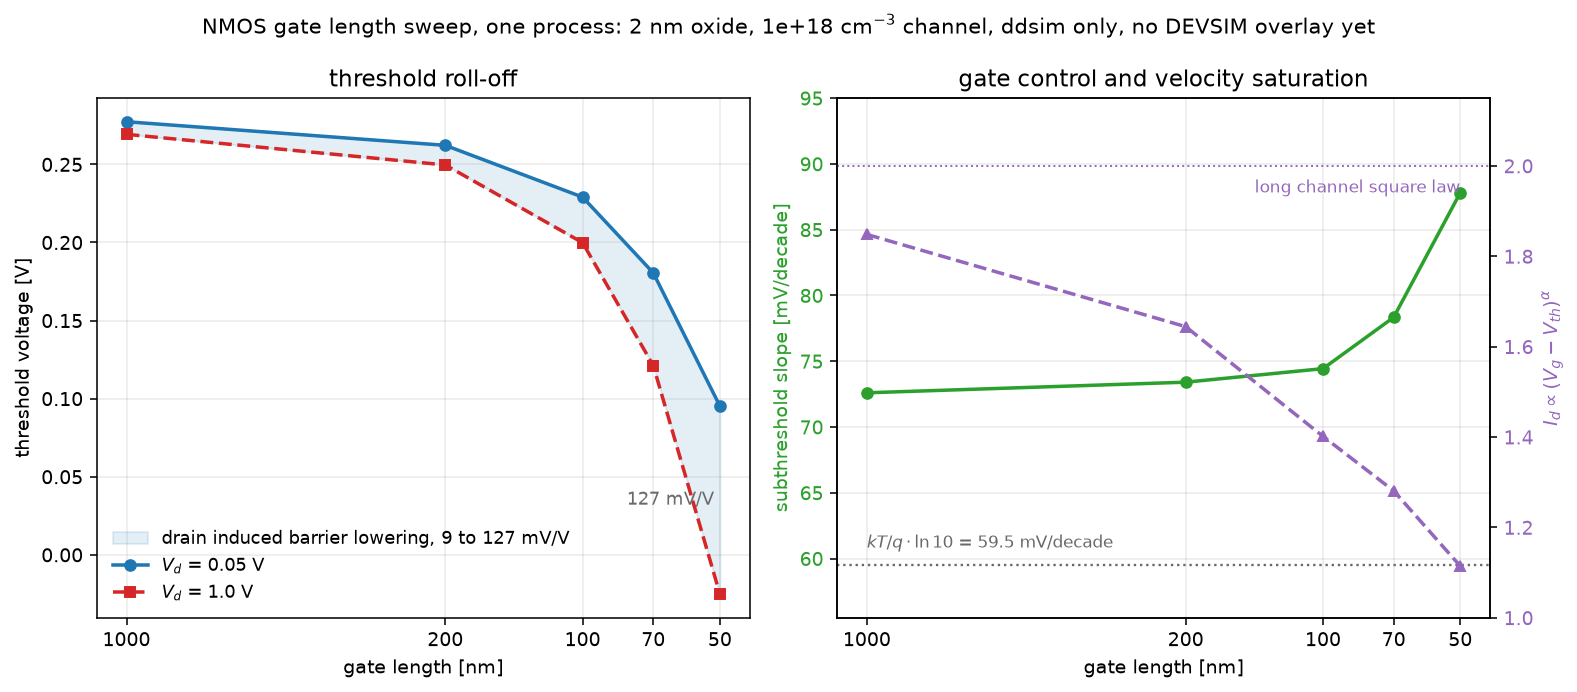
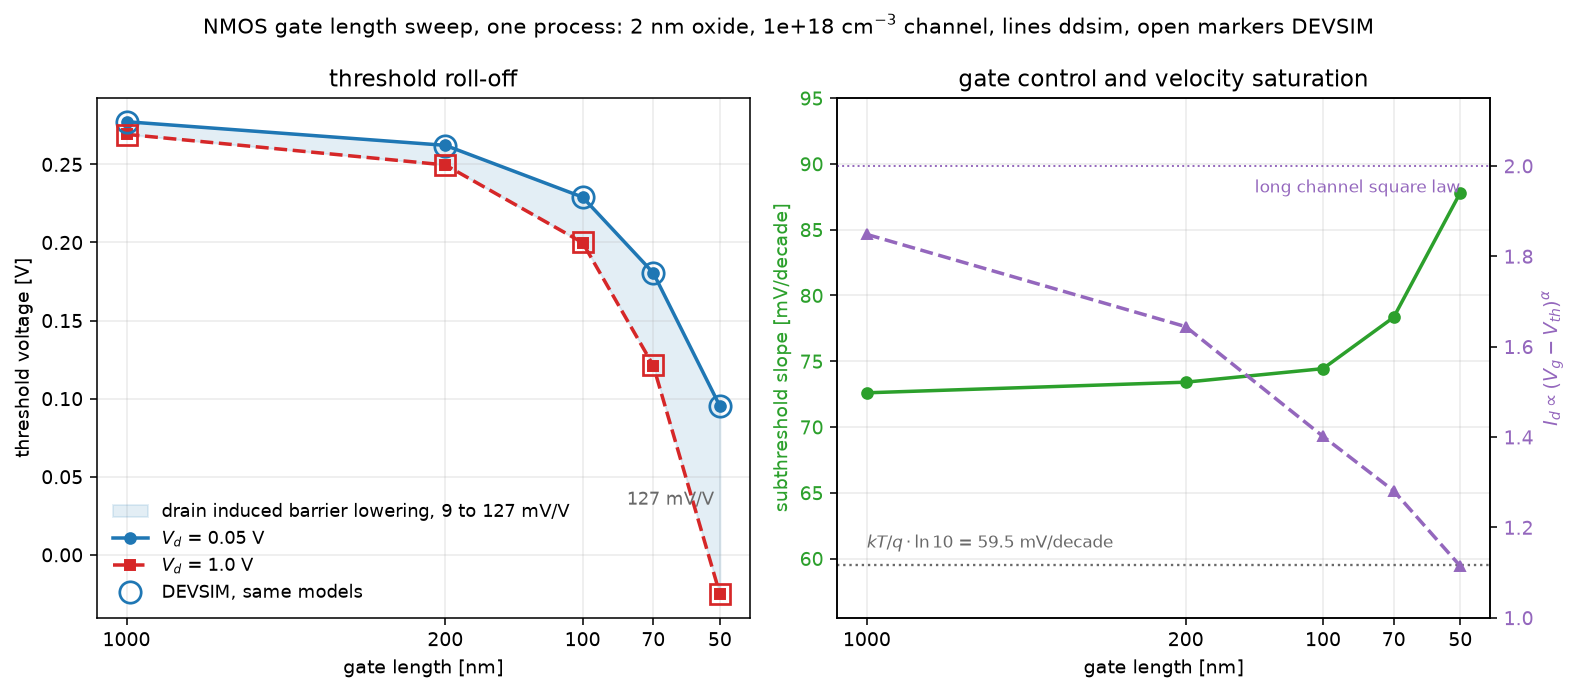
put devsim on the roll-off figure
The deliverable plot of phase 5, and it was ddsim alone until now. The
open markers are benchmark 10, read from the golden curves with the same
extractor at the same reference current, because comparing two codes
through two estimators measures the estimators.

Benchmark 9 could not be used here. It runs a matched reduced model set
on purpose, so its thresholds are not this figure's thresholds.

diff --git a/tests/analytic/test_mosfet_rolloff_plot.py b/tests/analytic/test_mosfet_rolloff_plot.py
@@ -31,33 +31,36 @@ the third is what the exponent is measuring, so a sweep taken on the Phase 2
 constant mobility would be measuring something else and reporting it under this
 title.
 
-DEVSIM is not on this figure yet
---------------------------------
-phases/PHASE-5.md asks for the sweep overlaid on DEVSIM, and benchmark 9 of
-docs/04-validation.md is the golden data for it. All of benchmarks 6 to 9 now
-have golden files, the roll-off ones in data/golden/rolloff_200nm.csv and its
-three siblings, and this figure still draws ddsim alone and still says so.
+DEVSIM is on this figure
+------------------------
+phases/PHASE-5.md asks for the sweep overlaid on DEVSIM, and the open markers
+on the left panel are it, read from data/golden/fullstack_1um.csv and its four
+siblings.
 
-That is not an omission waiting to be fixed. Every one of those generators runs
-Boltzmann statistics and constant mobility on purpose, matched model for model
-against ddsim run the same way, because that is what makes a disagreement mean
-something. This figure runs the full Phase 5 stack, Arora inside Lombardi
-inside Caughey-Thomas with Fermi-Dirac statistics, so the drain current here is
-not the drain current those files hold and the thresholds are not theirs
-either: at 50 nm the golden data gives +0.0065 and -0.1181 V where this figure
-reports +0.0947 and -0.0258, because a constant current criterion rides on the
-current scale and mobility sets that. Overlaying the two would draw a gap that
-is the model set rather than an error. The overlay needs DEVSIM run at the full
-stack, which nothing in tier 4 does yet. Benchmark 9 compares the two codes at
-the matched reduced set instead, in tests/regression/test_devsim_mosfet.py,
-where the roll-off magnitude agrees to 0.06 percent and DIBL to 1.1 percent or
-better. See the 2026-09-12 and 2026-09-13 rows in docs/07-decisions.md.
+Those files are benchmark 10 of docs/04-validation.md and they exist because
+benchmark 9 could not be used here. Benchmark 9 runs both codes at Boltzmann
+statistics and constant mobility on purpose, matched model for model, because
+that is what makes a disagreement about the geometry mean something. This
+figure runs the full Phase 5 stack, so its drain current is not the current
+those files hold and its thresholds are not theirs either: at 50 nm the
+benchmark 9 data gives +0.0065 and -0.1181 V where this figure reports around
++0.09 and -0.03, because a constant current criterion rides on the current
+scale and mobility sets that. Overlaying those would have drawn a gap that was
+the model set rather than an error.
+
+So DEVSIM was run again at the same stack, Fermi-Dirac by Joyce-Dixon with
+Arora inside Lombardi inside Caughey-Thomas, on its own mesh and out of its own
+expressions, and that is what is plotted. The two codes share the parameter
+values and nothing else. The agreement is gated in
+tests/regression/test_devsim_mosfet.py rather than here, since a figure is a
+bad place to keep a tolerance. See the 2026-09-12 and 2026-09-13 rows in
+docs/07-decisions.md.
 
 Nothing here is fitted
 ----------------------
 Every device on this plot is the same process from ddsim/extract/rolloff.py.
 The oxide, the channel doping, the implant depth and the lateral encroachment
-are identical across all six, and `L_gate` is the only argument that changes.
+are identical across all five, and `L_gate` is the only argument that changes.
 No short channel term exists anywhere in the solver to be turned on.
 """
 
@@ -72,10 +75,16 @@ import pytest
 matplotlib.use("Agg")
 import matplotlib.pyplot as plt  # noqa: E402
 
+from ddsim.extract.params import threshold_constant_current  # noqa: E402
 from ddsim.extract.rolloff import (  # noqa: E402
+    REFERENCE_CURRENT,
     SHORT_CHANNEL_PROCESS,
     gate_length_sweep,
 )
+from tests.regression.devsim_gen import parameters as P  # noqa: E402
+
+GOLDEN = pathlib.Path(__file__).resolve().parents[2] / "data" / "golden"
+"""Where benchmark 10's DEVSIM curves live."""
 
 OUTPUT = pathlib.Path(__file__).parents[2] / "docs" / "images"
 
@@ -124,10 +133,49 @@ def falling(values) -> bool:
     return bool(np.all(np.diff(np.asarray(values)) < 0.0))
 
 
+def devsim_thresholds() -> tuple[np.ndarray, np.ndarray, np.ndarray]:
+    """Benchmark 10's gate lengths [nm] and its two threshold curves [V].
+
+    The same constant current criterion the ddsim sweep uses, at the same
+    reference current, applied to DEVSIM's own transfer curves. Comparing two
+    codes through two different estimators would measure the estimators.
+
+    The leading points that are not yet on the rising part of the curve are
+    dropped, bounded so the drop cannot swallow a real current, by the same
+    `first_resolved_point` that tests/regression/test_devsim_mosfet.py applies
+    to ddsim's curves. Both codes need it at this model set: on the 1 um device
+    at 1 V of drain DEVSIM reports -4.5e-10 A/cm at -0.4 V of gate against a
+    target of 1e-3, and on the 100 nm at 50 mV it reports a positive +3.5e-11
+    that falls to +9.6e-12 at the next step. Sharing the rule is what keeps
+    this an overlay of two codes rather than of two preprocessings.
+    """
+    lengths: list[float] = []
+    linear: list[float] = []
+    saturated: list[float] = []
+    for name in P.FULL_STACK_TREND:
+        benchmark = P.MOSFET_BY_NAME[name]
+        golden = P.read_mosfet_golden(str(GOLDEN / f"{name}.csv"))
+        gate = np.asarray(golden.gate_voltage, dtype=np.float64)
+        target = REFERENCE_CURRENT / benchmark.L_gate
+        lengths.append(benchmark.L_gate * 1e7)
+        for curve, out in (
+            (golden.drain_low, linear),
+            (golden.drain_high, saturated),
+        ):
+            current = np.asarray(curve, dtype=np.float64)
+            keep = P.first_resolved_point(current, target)
+            out.append(
+                threshold_constant_current(
+                    gate[keep:], current[keep:], target
+                )
+            )
+    return np.array(lengths), np.array(linear), np.array(saturated)
+
+
 def label_lengths(axis, lengths) -> None:
     """Tick at the gate lengths that were solved, not at powers of ten.
 
-    A log axis holding six points between 1000 and 50 nm labels two of them by
+    A log axis holding five points between 1000 and 50 nm labels two of them by
     default and leaves the reader counting minor ticks to find the rest.
     """
     axis.set_xticks(lengths)
@@ -170,7 +218,7 @@ def test_the_threshold_rolls_off(sweep):
     """Both extraction methods, both drain biases. The source and drain
     depletion regions share channel charge the gate would otherwise have to
     deplete itself, so a shorter channel needs less gate. Nothing about the
-    doping or the oxide changed between these six devices."""
+    doping or the oxide changed between these five devices."""
     assert falling([point.threshold_linear for point in sweep])
     assert falling([point.threshold_saturated for point in sweep])
     assert falling([point.threshold_extrapolated for point in sweep])
@@ -209,6 +257,26 @@ def test_velocity_saturation_pulls_the_exponent_off_the_square_law(sweep):
     # subthreshold slope is asserted that way: the long devices differ from
     # each other by less than the extraction resolves.
     assert np.all(np.diff(exponents) < 0.01)
+
+
+def test_the_devsim_overlay_is_the_same_five_devices(sweep):
+    """The open markers sit at the gate lengths the curve was solved at.
+
+    A reference plotted at gate lengths the sweep does not contain is not an
+    overlay, it is two plots sharing an axis, and at a glance the figure would
+    not say which. The agreement between the two is gated in
+    tests/regression/test_devsim_mosfet.py, where a tolerance belongs.
+    """
+    lengths, linear, saturated = devsim_thresholds()
+
+    assert list(lengths) == pytest.approx(
+        [point.L_gate * 1e7 for point in sweep]
+    )
+    assert np.all(saturated < linear), (
+        "DEVSIM puts a saturated threshold above its linear one, which is not "
+        "drain induced barrier lowering and would draw the shaded band upside "
+        "down"
+    )
 
 
 def test_the_process_did_not_change_across_the_sweep(sweep):
@@ -260,6 +328,28 @@ def test_mosfet_rolloff_plot_is_generated(sweep):
         linewidth=1.8,
         markersize=5.0,
         label=f"$V_d$ = {DRAIN_HIGH} V",
+    )
+    devsim_lengths, devsim_linear, devsim_saturated = devsim_thresholds()
+    left.plot(
+        devsim_lengths,
+        devsim_linear,
+        "o",
+        markerfacecolor="none",
+        markeredgecolor="tab:blue",
+        markersize=11,
+        markeredgewidth=1.4,
+        linestyle="none",
+        label="DEVSIM, same models",
+    )
+    left.plot(
+        devsim_lengths,
+        devsim_saturated,
+        "s",
+        markerfacecolor="none",
+        markeredgecolor="tab:red",
+        markersize=10,
+        markeredgewidth=1.4,
+        linestyle="none",
     )
     left.annotate(
         f"{sweep[-1].dibl:.0f} mV/V",
@@ -341,7 +431,7 @@ def test_mosfet_rolloff_plot_is_generated(sweep):
         "NMOS gate length sweep, one process: "
         f"{SHORT_CHANNEL_PROCESS['t_ox'] * 1e7:.0f} nm oxide, "
         f"{-SHORT_CHANNEL_PROCESS['substrate_doping']:.0e} cm$^{{-3}}$ "
-        "channel, ddsim only, no DEVSIM overlay yet",
+        "channel, lines ddsim, open markers DEVSIM",
         fontsize=11,
     )
     figure.tight_layout()

diff --git a/README.md b/README.md
@@ -22,9 +22,9 @@ conserves current through every cut and keeps doing it with a dielectric
 layer stacked on top.
 
 Phase 5 is the MOSFET, and its gate length sweep runs: threshold roll-off,
-DIBL and velocity saturation all come out of six devices that differ in one
-argument. What is left of the phase is the DEVSIM comparison, benchmarks 6 to
-9, which have no golden data yet.
+DIBL and velocity saturation all come out of five devices that differ in one
+argument. Benchmarks 6 to 9, the DEVSIM comparison, now have golden data and
+pass, so tier 4 covers all nine.
 
 | Phase | Scope | Status |
 |---|---|---|
@@ -315,9 +315,20 @@ which asserts every one of these claims before it draws anything.
 
 ### What is not on this figure yet
 
-DEVSIM. Benchmarks 6 to 9 of `docs/04-validation.md` are the MOSFETs and they
-have no golden data yet, so the plot is ddsim alone and says so. Generating
-them is what closes Phase 5.
+DEVSIM. Benchmarks 6 to 9 of `docs/04-validation.md` are the MOSFETs and all
+four now have golden data that passes, so this is not a missing comparison.
+It is a different one. Every one of those generators runs Boltzmann statistics
+and constant mobility on purpose, matched model for model against ddsim run the
+same way, because that is what makes a disagreement mean something. This figure
+runs the full Phase 5 stack, so its drain current is not the current those files
+hold and its thresholds are not theirs either: at 50 nm the golden data gives
++0.0065 and -0.1181 V where this figure reports +0.0947 and -0.0258, because a
+constant current criterion rides on the current scale and mobility sets that.
+Overlaying the two would draw a gap that is the model set rather than an error.
+The overlay needs DEVSIM run at the full stack, which nothing in tier 4 does
+yet. Benchmark 9 compares the two codes at the matched reduced set instead, in
+`tests/regression/test_devsim_mosfet.py`, where the roll-off magnitude agrees to
+0.06 percent and DIBL to 1.1 percent or better.
 
 ### Where these numbers stop meaning anything
 

diff --git a/docs/04-validation.md b/docs/04-validation.md
@@ -178,7 +178,7 @@ agree to solver tolerance. If they disagree, one of the two Jacobians is wrong.
 ## Tier 4: regression against DEVSIM
 
 DEVSIM is open source, free, and solves exactly this system. It is the ground
-truth. Install it, script the same nine devices, commit the output curves as
+truth. Install it, script the same devices, commit the output curves as
 `data/golden/*.csv`, and diff against them in CI.
 
 Benchmark set:
@@ -194,6 +194,17 @@ Benchmark set:
 | 7 | NMOS Lg = 180 nm | Id-Vg, Id-Vd | 5% |
 | 8 | NMOS Lg = 65 nm | Id-Vg (DIBL) | 8% |
 | 9 | Lg sweep 1 um to 50 nm | Vth vs Lg | trend + 10% |
+| 10 | The same Lg sweep, full Phase 5 stack | Id-Vg, Vth vs Lg, DIBL | 10% |
+
+**Benchmarks 9 and 10 are the same five devices twice.** Benchmark 9 runs
+both codes at Boltzmann statistics and a constant mobility, which is what makes
+a disagreement there a statement about the 2D transport, the geometry and the
+electrostatics alone. Benchmark 10 runs both at the Phase 5 stack, Fermi-Dirac
+by Joyce-Dixon with Arora inside Lombardi inside Caughey-Thomas, and it is the
+only benchmark in this tier where either mobility model or the statistics meets
+an implementation that is not ddsim's. Having both is what tells a mobility
+disagreement from a geometry one: a residual present in both is the device, and
+one present only in 10 is a model.
 
 **Match the models before comparing numbers.** DEVSIM's defaults for n_i,
 mobility model, and lifetime must be set explicitly to match yours or the
